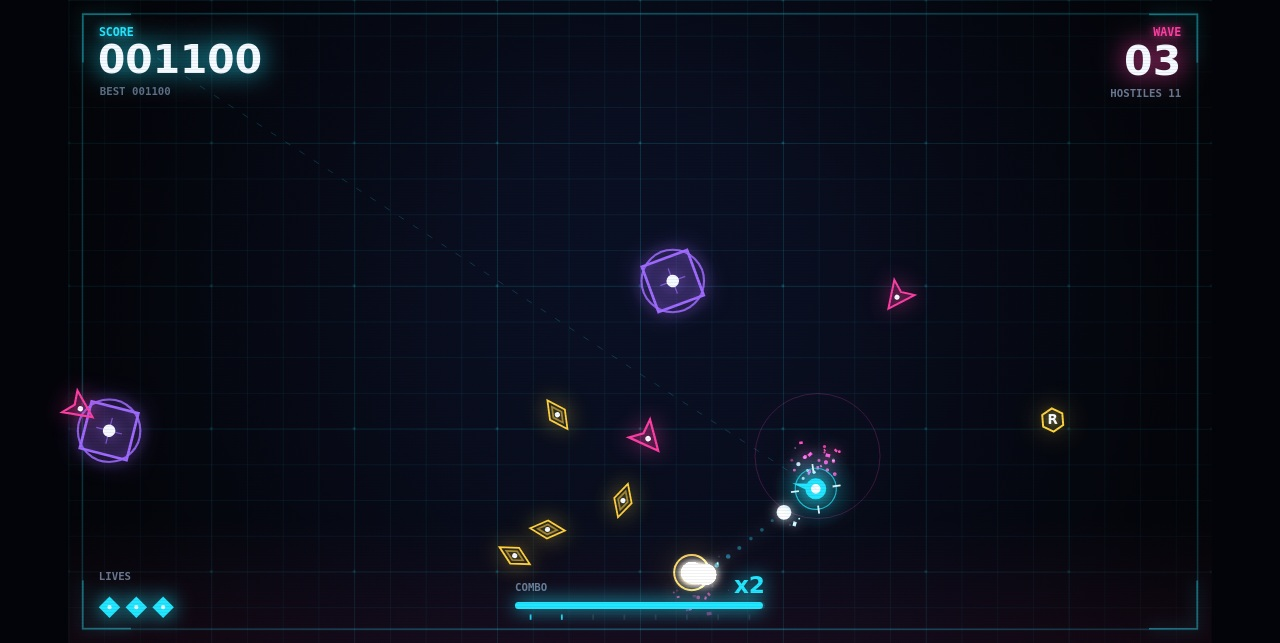
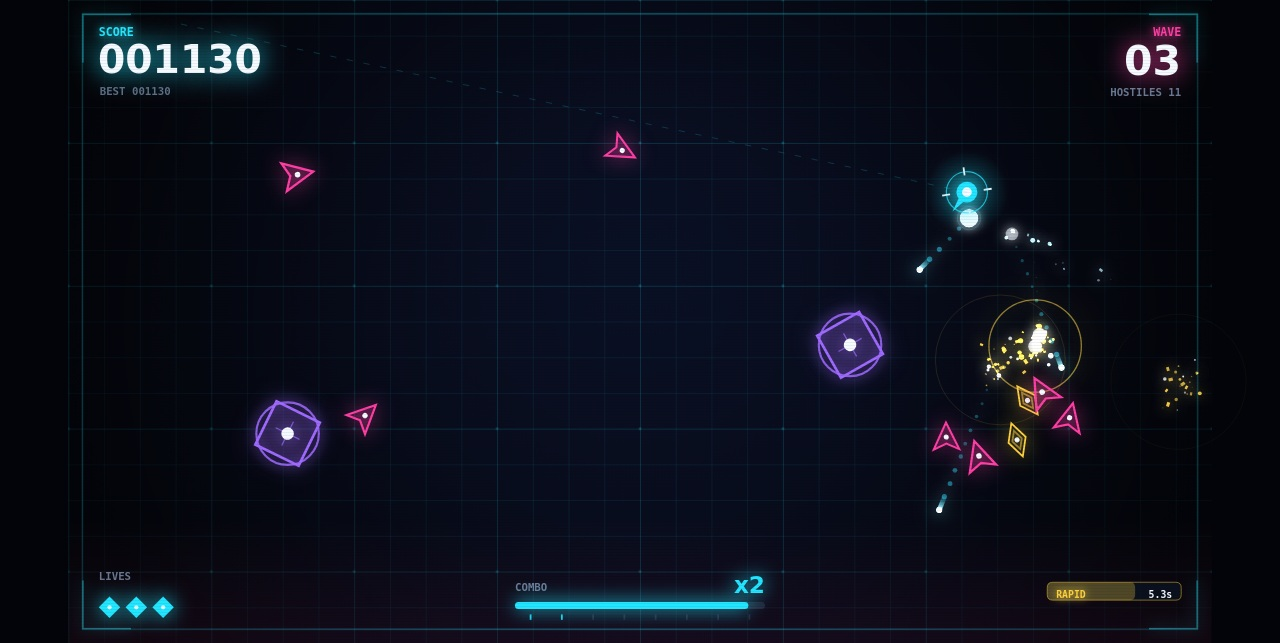
Tune the play screenshot scene: fight at a real score, then hold fire so the arena fills

diff --git a/game/src/shots.js b/game/src/shots.js
@@ -12,7 +12,7 @@ import { PLAYER, SCREEN, STEP } from './config.js';
 const TITLE_SECONDS = 8;
 const FIGHT_SECONDS = 29;
 /** The beat the pilot holds fire on, so hostiles gather for the frame. */
-const SWARM_SECONDS = 7.0;
+const SWARM_SECONDS = 10.5;
 const OVER_SECONDS = 104;
 /** The render clock each scene freezes at; drives decorative motion only. */
 const TITLE_CLOCK = 4.7;
